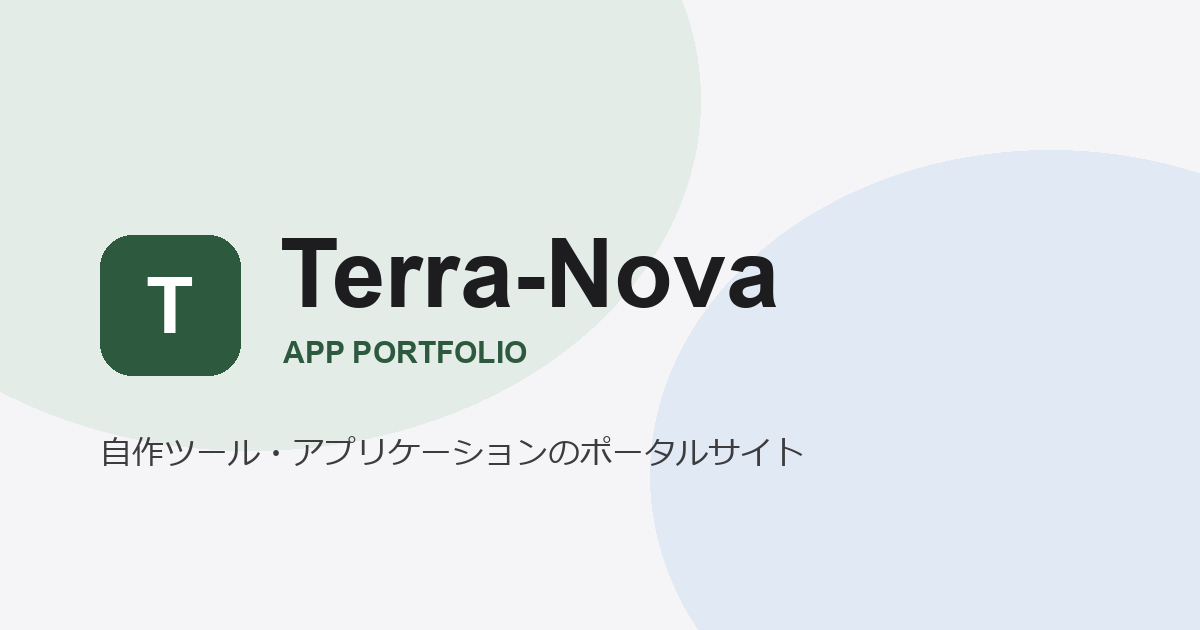
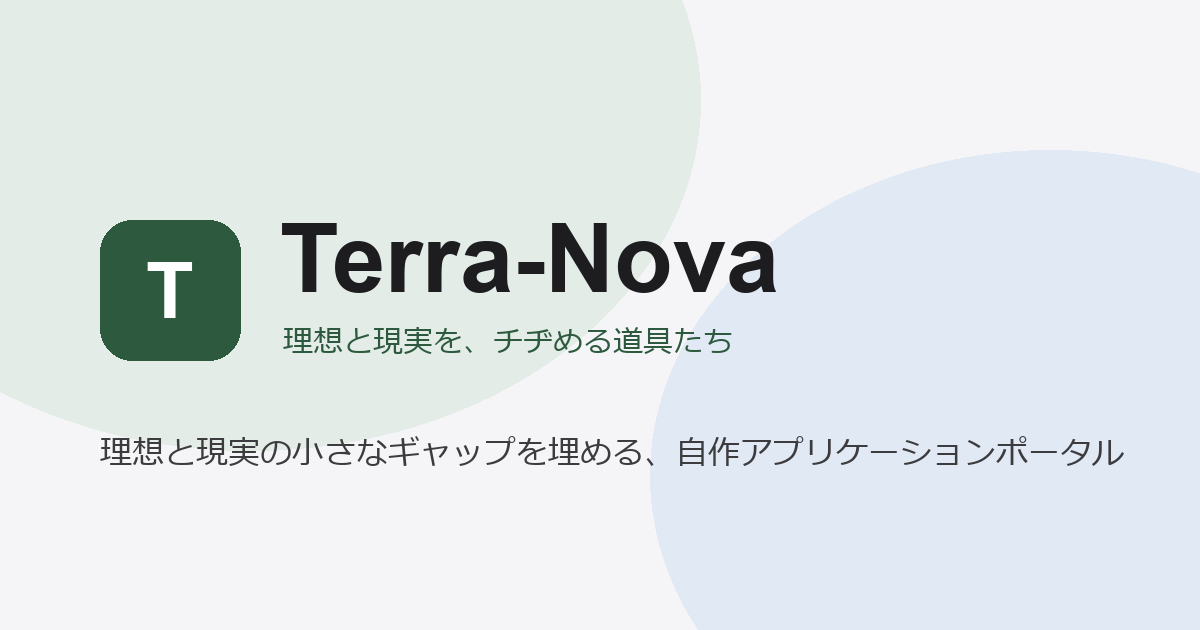
サイトのコンセプトを「理想と現実のギャップを埋める」軸に統一（チヂメギャップと地続きに）
ヒーロー・About・各アプリの説明文すべてに「〜のに、〜できない／できていない——そのギャップを埋める」という一貫した語り口を導入。OGP画像・meta descriptionも同じ文言に更新。

diff --git a/index.html b/index.html
@@ -5,14 +5,14 @@
     <meta charset="UTF-8">
     <meta name="viewport" content="width=device-width, initial-scale=1.0">
     <title>Terra-Nova</title>
-    <meta name="description" content="日々の生活を少し便利にする、自作アプリケーションのポータルサイト。">
+    <meta name="description" content="理想と現実の小さなギャップを埋めるために作った、自作アプリケーションのポータルサイト。">
     <link rel="icon" type="image/svg+xml" href="favicon.svg">
     <link rel="apple-touch-icon" href="apple-touch-icon.png">
     <link rel="canonical" href="https://terra-nova-botanical.com/">
     <meta property="og:type" content="website">
     <meta property="og:site_name" content="Terra-Nova">
     <meta property="og:title" content="Terra-Nova | 自作アプリケーション・ポータル">
-    <meta property="og:description" content="日々の生活を少し便利にする、自作アプリケーションのポータルサイト。">
+    <meta property="og:description" content="理想と現実の小さなギャップを埋めるために作った、自作アプリケーションのポータルサイト。">
     <meta property="og:url" content="https://terra-nova-botanical.com/">
     <meta property="og:image" content="https://terra-nova-botanical.com/og-image.png">
     <meta property="og:image:width" content="1200">
@@ -39,9 +39,9 @@
 
     <main>
         <section class="hero">
-            <p class="hero-eyebrow reveal">App Portfolio</p>
+            <p class="hero-eyebrow reveal">理想と現実を、チヂめる道具たち</p>
             <h1 class="hero-title reveal" style="--reveal-delay: 0.1s;">Terra-Nova</h1>
-            <p class="hero-subtitle reveal" style="--reveal-delay: 0.2s;">生活と仕事を豊かにするための、自作ツールとアプリケーションのポータル。</p>
+            <p class="hero-subtitle reveal" style="--reveal-delay: 0.2s;">「できたらいいのに」と「まだできていない」のあいだを埋める、自作ツールのポータル。</p>
         </section>
 
         <section id="about" class="about-section">
@@ -49,17 +49,17 @@
                 <h2 class="section-title reveal">About Terra-Nova</h2>
                 <div class="about-content reveal">
                     <h3>コンセプト</h3>
-                    <p>Terra-Nova は、日常の業務改善や生活の可視化の手助けになればと考えて開発した、自作ツール・アプリケーション群です。シンプルで実用的なツールを目指しています。</p>
+                    <p>「本当はこうしたいのに、今はまだそうなっていない」。日々のそんな小さなギャップに気づいたときに、自分で埋めるために作ってきた、自作ツール・アプリケーションの記録です。派手な機能より、ひとつのギャップをちゃんと埋めることを大事にしています。</p>
 
                     <h3>こんな方に</h3>
                     <ul>
-                        <li>日々のタスク・スケジュールを管理したい</li>
-                        <li>生活や趣味のデータを整理・可視化したい</li>
+                        <li>理想と現実の間に、ちょっとしたギャップを感じている</li>
+                        <li>既存のアプリでは、そのギャップがうまく埋まらなかった</li>
                         <li>シンプルで実用的なツールを探している</li>
                     </ul>
 
                     <h3>使い方</h3>
-                    <p>それぞれのアプリが独立して動作します。あなたのニーズに合わせて、必要なアプリをお選びください。</p>
+                    <p>それぞれのアプリが、それぞれのギャップに向き合っています。あなたが感じているギャップに近いものから、お試しください。</p>
                 </div>
             </div>
         </section>
@@ -74,7 +74,7 @@
                             <svg width="24" height="24" viewBox="0 0 24 24" fill="none" stroke="white" stroke-width="2" stroke-linecap="round" stroke-linejoin="round"><path d="M12 2C6.48 2 2 6.48 2 12s4.48 10 10 10 10-4.48 10-10S17.52 2 12 2zm1 15h-2v-6h2v6zm0-8h-2V7h2v2z"/></svg>
                         </div>
                         <h3 class="card-title">Botanical Breed</h3>
-                        <p class="card-desc">植物の個体情報を管理し、交配記録や形質スコア、成長過程の写真を一元管理できるアプリケーション。</p>
+                        <p class="card-desc">増えていく株の交配記録、メモだけでは追いきれない——そのギャップを埋める、個体管理・交配記録アプリ。</p>
                         <div class="card-footer">
                             <span class="card-status is-live">App Store 配信中</span>
                             <span class="card-arrow" aria-hidden="true">
@@ -89,7 +89,7 @@
                             <svg width="24" height="24" viewBox="0 0 24 24" fill="none" stroke="white" stroke-width="2" stroke-linecap="round" stroke-linejoin="round"><circle cx="12" cy="12" r="10"></circle><circle cx="12" cy="12" r="6"></circle><circle cx="12" cy="12" r="3"></circle><circle cx="7" cy="12" r="1"></circle><circle cx="17" cy="12" r="1"></circle><circle cx="12" cy="7" r="1"></circle><circle cx="12" cy="17" r="1"></circle></svg>
                         </div>
                         <h3 class="card-title">Mandala Chart</h3>
-                        <p class="card-desc">9×9グリッドであなたの目標や夢を整理し、可視化・追跡できるマンダラ・チャート作成ツール。</p>
+                        <p class="card-desc">目標は紙に書いただけで終わりがち——そのギャップを埋める、9×9マンダラ・チャート作成ツール。</p>
                         <div class="card-footer">
                             <span class="card-status is-live">Web版 公開中</span>
                             <span class="card-arrow" aria-hidden="true">
@@ -104,7 +104,7 @@
                             <svg width="24" height="24" viewBox="0 0 24 24" fill="none" stroke="white" stroke-width="2" stroke-linecap="round" stroke-linejoin="round"><path d="M9 11l3 3L22 4"></path><path d="M21 12v7a2 2 0 01-2 2H5a2 2 0 01-2-2V5a2 2 0 012-2h11"></path></svg>
                         </div>
                         <h3 class="card-title">SixDo</h3>
-                        <p class="card-desc">今日やることを6つまでに絞る、アイビー・リー・メソッド専用のタスク管理アプリ。広告なし・データは端末内だけ。</p>
+                        <p class="card-desc">やることが多すぎて何も終わらない——そのギャップを埋める、6つまでしか書けないタスク管理アプリ。広告なし・データは端末内だけ。</p>
                         <div class="card-footer">
                             <span class="card-status is-live">App Store 配信中</span>
                             <span class="card-arrow" aria-hidden="true">
@@ -119,7 +119,7 @@
                             <svg width="24" height="24" viewBox="0 0 24 24" fill="none" stroke="white" stroke-width="2" stroke-linecap="round" stroke-linejoin="round"><path d="M12 19l7-7 3 3-7 7-3-3z"/><path d="M18 13l-1.5-7.5L2 2l3.5 14.5L13 18l5-5z"/><path d="M2 2l7.586 7.586"/><circle cx="11" cy="11" r="2"/></svg>
                         </div>
                         <h3 class="card-title">Nib Journal</h3>
-                        <p class="card-desc">紙のバレットジャーナルの思想をベースにした、毎日の気づきを記録する日記アプリ。デイリー記録とマンスリーの見える化。</p>
+                        <p class="card-desc">日記は続けたいのに続かない——そのギャップを埋める、紙のノート感覚の日記アプリ。デイリー記録とマンスリーの見える化。</p>
                         <div class="card-footer">
                             <span class="card-status is-live">App Store 配信中</span>
                             <span class="card-arrow" aria-hidden="true">
@@ -134,7 +134,7 @@
                             <svg width="24" height="24" viewBox="0 0 24 24" fill="none" stroke="white" stroke-width="2" stroke-linecap="round" stroke-linejoin="round"><path d="M21 16V8a2 2 0 00-1-1.73l-7-4a2 2 0 00-2 0l-7 4A2 2 0 003 8v8a2 2 0 001 1.73l7 4a2 2 0 002 0l7-4A2 2 0 0021 16z"/><path d="M3.27 6.96L12 12.01l8.73-5.05"/><path d="M12 22.08V12"/></svg>
                         </div>
                         <h3 class="card-title">にほんのたび</h3>
-                        <p class="card-desc">未就学児向け、のりもので日本を旅する地理あそびアプリ。乗り物ごとの経路や県境を体感しながら学べる。</p>
+                        <p class="card-desc">地理は覚えさせたいのに興味を持ってもらえない——そのギャップを埋める、のりもので日本を旅する地理あそびアプリ。</p>
                         <div class="card-footer">
                             <span class="card-status">App Store 審査中</span>
                             <span class="card-arrow" aria-hidden="true">
